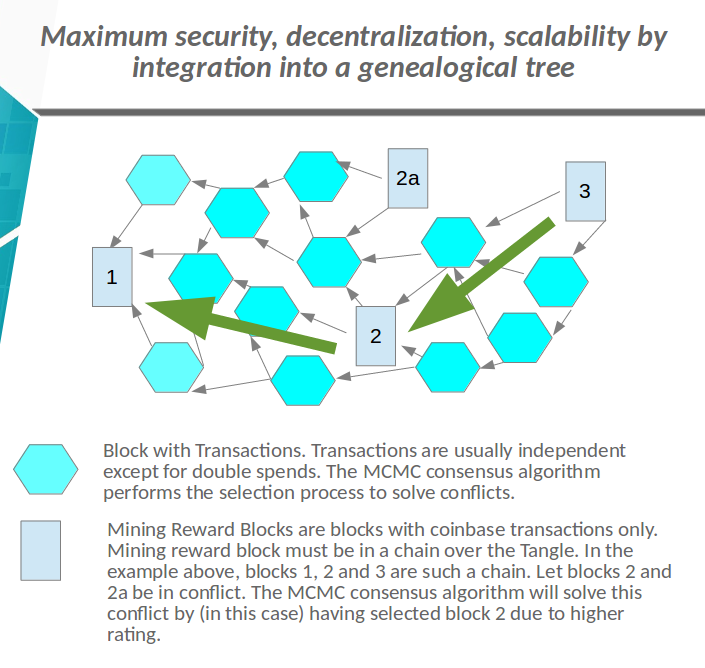
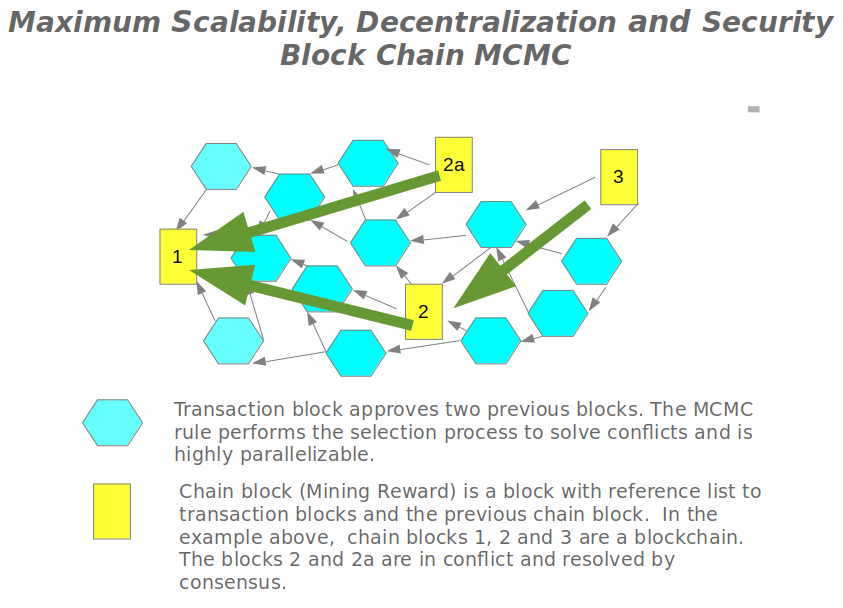
mcmc

diff --git a/readme.md b/readme.md
@@ -1,7 +1,9 @@
 # Cryptocurrency, Payment, Asset，Exchange and Web3 Platform
 
 
-BigTangle is a cryptocurrency network that extends the blockchain with the help of the Markov Chain Monte Carlo (MCMC). The consensus algorithm is Proof-of-Work and will be migrated to Proof-of-Stake. The consensus forms the blockchain, where each chain block contains a list of references to other transaction blocks. The parallelizable transaction blocks follow the rules of MCMC between two chain blocks. This new protocol is highly parallelizable, scalable and fast.
+BigTangle is a cryptocurrency network that extends the blockchain with the help of the Markov Chain Monte Carlo (MCMC). The consensus algorithm is Proof-of-Work and will be migrated to Proof-of-Stake. The consensus forms the blockchain, where each chain block contains a list of references to other transaction blocks and the previous chain block. The parallelizable transaction blocks follow the rules of MCMC between two chain blocks. This new protocol is highly parallelizable, scalable and fast.
+
+ Blockchain MCMC ![alt text](images/mcmc-en.png)
 
 Through the use of standard technology in conjunction with a parallelizable architecture, BigTangle positions itself as a successor to Bitcoin and Ethereum, with blockchain and smart contracts representing as special use cases.
 
@@ -15,7 +17,7 @@ BigTangle focuses on economically important key use-cases, supporting token issu
 - **Permissionless:** Open access for all participants.
 - **Trustless:** Decentralized without the need for trust.
 - **Decentralized Proof of Work:** Distributes the proof-of-work mechanism.
-- **Constant Total Coin and Fee:** Maintains a constant coin supply and fee pro block. The mining reward is the collected fees.
+- **Constant Total Coin and Fee:** Maintains a constant coin supply and fee pro block. The mining reward is the fees.
 
 ## Transaction
 
@@ -33,7 +35,7 @@ BigTangle operates as a decentralized exchange with integrated markets for vario
 
 BigTangle implements a decentralized lottery, Cross-Chain Tokens, Digital Identity and  provides web service and storage.
 
- Blockchain MCMC ![alt text](images/mcmc-en.png) 
+##
 
 ## White paper <https://github.com/bigtangle/whitepaper/bigtangle.pdf>
 

diff --git a/zh/readme.md b/zh/readme.md
@@ -1,7 +1,7 @@
 # 加密货币、支付、资产、交易和Web3平台
 
 大网(BigTangle)是一个加密货币网络，通过马尔可夫链蒙特卡洛（MCMC）的帮助扩展区块链。共识算法采用工作证明（Proof-of-Work)，将迁移到股权证明（Proof-of-Stake)。区块链形成共识，其中每个形成链的区块包含引用对其他类型交易区块的表。可并行处理的交易区块遵循MCMC规则。这种新协议具有高度可并行化、可扩展和快速的特点。
-
+ 区块链MCMC ![alt text](../images/mcmc-zh.png)
 通过使用标准技术与可并行化的架构相结合，大网(BigTangle)为比特币和以太坊的继任者，区块链 Bitcoin 和智能合约Ethereum代表特殊用例。
 
 大网(BigTangle)专注于经济重要的关键用例，支持自定义代币发行、交易、交易所、挖矿活动和合约。
@@ -31,8 +31,6 @@
 ## Web3
 
 大网(BigTangle)实现用于去中心化彩票，通证跨链,数字身份证, 并可以提供Web服务和存储。
-
- 区块链MCMC ![alt text](images/mcmc-en.png)
 
 ## 白皮书 <https://github.com/igtangle/whitepaper/bigtangle.pdf>
 
